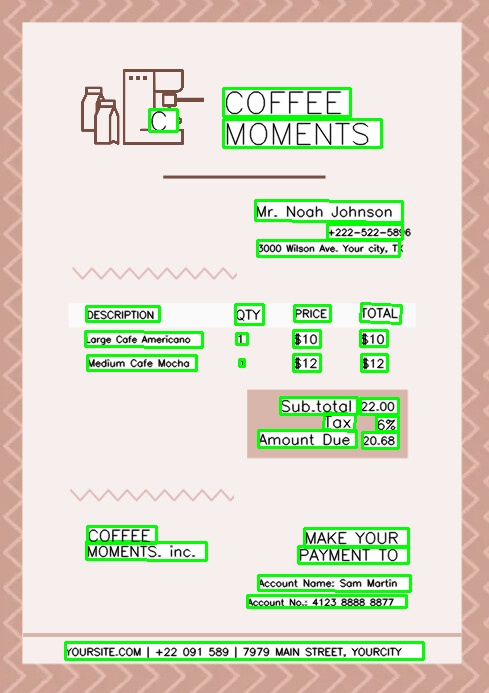
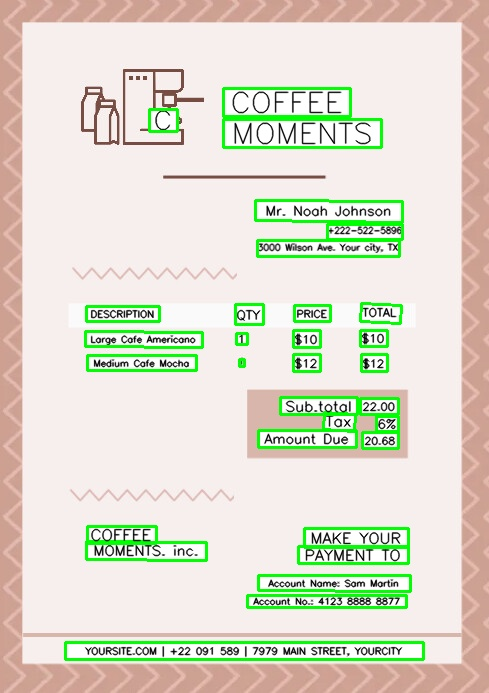
feat: implement text squeezing for OCR inference
- Handle text overflow by rescaling width when font scale is at minimum.
- Use alpha blending with INTER_AREA interpolation for better visual quality.
- Center text dynamically within detected bounding boxes.

diff --git a/examples/inference_onnx_mobile.py b/examples/inference_onnx_mobile.py
@@ -88,24 +88,51 @@ for box, text in zip(boxes, texts):
         (text_w, text_h), _ = cv2.getTextSize(
             text, cv2.FONT_HERSHEY_SIMPLEX, font_scale, thickness
         )
-        if text_w > w * 0.95 or text_h > h * 0.9:
+        if text_w > w * 0.9 or text_h > h * 0.9:
             font_scale -= 0.02
             break
         font_scale += 0.02
 
     font_scale = max(font_scale, 0.3)
-    text_y = y + (h + text_h) // 2
-
-    cv2.putText(
-        output_img,
-        text,
-        (x, text_y),
-        cv2.FONT_HERSHEY_SIMPLEX,
-        font_scale,
-        (0, 0, 0),
-        thickness,
-        cv2.LINE_AA
+    (text_w, text_h), baseline = cv2.getTextSize(
+        text, cv2.FONT_HERSHEY_SIMPLEX, font_scale, thickness
     )
+
+    # If text is still too wide at the smallest scale, squeeze it horizontally
+    if text_w > w and font_scale <= 0.3:
+        mask_h = text_h + baseline
+        text_mask = np.zeros((mask_h, text_w), dtype=np.uint8)
+        cv2.putText(text_mask, text, (0, text_h), cv2.FONT_HERSHEY_SIMPLEX, font_scale, 255, thickness, cv2.LINE_AA)
+        
+        # Rescale text width to fit exactly into the box using INTER_AREA for better quality
+        squeezed_mask = cv2.resize(text_mask, (w, mask_h), interpolation=cv2.INTER_AREA)
+        
+        # Draw the squeezed text with Alpha Blending
+        text_y_pos = y + (h - mask_h) // 2
+        img_h, img_w = output_img.shape[:2]
+        r_y, r_x = max(0, text_y_pos), max(0, x)
+        r_h, r_w = min(img_h - r_y, mask_h), min(img_w - r_x, w)
+        
+        if r_h > 0 and r_w > 0:
+            # Use alpha blending to keep anti-aliasing smooth
+            alpha = squeezed_mask[:r_h, :r_w, np.newaxis].astype(np.float32) / 255.0
+            roi = output_img[r_y:r_y+r_h, r_x:r_x+r_w].astype(np.float32)
+            blended = roi * (1.0 - alpha) + (0, 0, 0) * alpha
+            output_img[r_y:r_y+r_h, r_x:r_x+r_w] = blended.astype(np.uint8)
+    else:
+        # Calculate horizontal centering
+        text_x = x + (w - text_w) // 2
+        text_y = y + (h + text_h) // 2
+        cv2.putText(
+            output_img,
+            text,
+            (text_x, text_y),
+            cv2.FONT_HERSHEY_SIMPLEX,
+            font_scale,
+            (0, 0, 0),
+            thickness,
+            cv2.LINE_AA
+        )
     cv2.polylines(output_img, [pts], isClosed=True, color=(0, 255, 0), thickness=2)
 
 # --- 6. Save result ---
